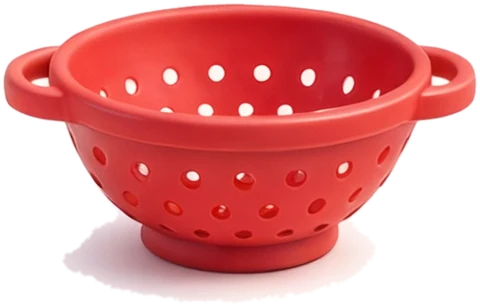
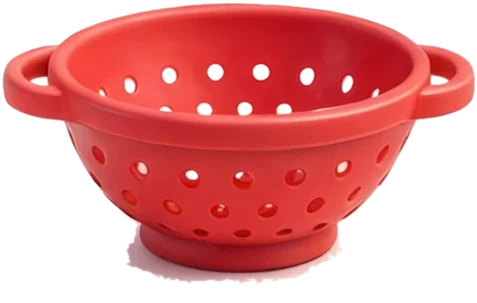
Pasta: spaghetti clearly visible at every step
Dry bundle stands in the pot as a fan and softens, bends and sinks while
stirring; boiling bubbles and rising steam; cooked pasta swirls in the water.
Draining: the pot tilts over the colander, water streams out, the spaghetti
drops into the colander (on top, front rim in front), drips and a puddle below.
Pouring: the sauce bowl follows the finger with a stream, sauce spreads in
blobs and is blended over the noodles so strands stay visible. New clean
cooked-spaghetti picture (no tomato bits); colander and pan without white halos.
Dev ?step= also presets the earlier steps' state.

diff --git a/src/components/PastaMission.tsx b/src/components/PastaMission.tsx
@@ -43,20 +43,26 @@ interface Blob { x: number; y: number; r: number }
 interface Top { id: string; x: number; y: number; rot: number; k: number }
 
 /** Тарелка пасты: тарелка, горка спагетти, пятна соуса, украшения. Координаты — доли коробки. */
-const PastaDish: React.FC<{ width: string; sauce?: Recipe; blobs: Blob[] | 'full'; tops: Top[]; pasta?: boolean; boxRef?: React.Ref<HTMLDivElement>; className?: string } & React.HTMLAttributes<HTMLDivElement>> =
-  ({ width, sauce, blobs, tops, pasta = true, boxRef, className = '', style, ...rest }) => (
+const PastaDish: React.FC<{ width: string; children?: React.ReactNode; sauce?: Recipe; blobs: Blob[] | 'full'; tops: Top[]; pasta?: boolean; boxRef?: React.Ref<HTMLDivElement>; className?: string } & React.HTMLAttributes<HTMLDivElement>> =
+  ({ width, children, sauce, blobs, tops, pasta = true, boxRef, className = '', style, ...rest }) => (
     <div ref={boxRef} className={`relative shrink-0 ${className}`} style={{ width, height: `calc(${width} * 0.66)`, ...style }} {...rest}>
       {/* тарелка (рисуем сами — без тени-ореола) */}
       <div className="absolute left-0 right-0 bottom-[2%] h-[62%] rounded-[50%] pointer-events-none" style={{ background: 'radial-gradient(ellipse at 50% 45%, #FFFFFF 0 52%, #EEF0F3 58%, #FFFFFF 66%, #E3E6EA 100%)', boxShadow: '0 10px 18px rgba(0,0,0,.22)' }} />
       {pasta && <img src={P('spaghetti')} alt="" draggable={false} className="absolute pointer-events-none animate-pop-in" style={{ left: '15%', width: '70%', top: '6%' }} />}
       {sauce && (
-        <div className="absolute pointer-events-none" style={{ left: '17%', width: '66%', top: '8%', height: '58%', borderRadius: '50%', overflow: 'hidden' }}>
+        <div className="absolute pointer-events-none" style={{ left: '19%', width: '62%', top: '5%', height: '48%', borderRadius: '50% 50% 44% 44% / 62% 62% 38% 38%', overflow: 'hidden', mixBlendMode: sauce.id === 'cream' ? 'normal' : 'multiply', opacity: sauce.id === 'cream' ? 0.8 : 1 }}>
           {(blobs === 'full' ? FULL : blobs).map((b, i) => (
-              <span key={i} className="absolute rounded-full" style={{
-                left: `${b.x * 100}%`, top: `${b.y * 100}%`, width: `${b.r * 100}%`, aspectRatio: '1', transform: 'translate(-50%,-50%)',
-                background: `radial-gradient(circle at 40% 35%, ${sauce.color}, ${sauce.dark} 80%, transparent 82%)`, opacity: 0.92,
-              }} />
+              <span key={i} className="absolute" style={{ left: `${b.x * 100}%`, top: `${b.y * 100}%`, width: `${b.r * 100}%`, aspectRatio: '1', transform: 'translate(-50%,-50%)' }}>
+                <span className="block w-full h-full rounded-full" style={{
+                  background: `radial-gradient(circle at 38% 32%, ${sauce.color}, ${sauce.dark} 78%, transparent 82%)`, opacity: 0.92,
+                  animation: blobs === 'full' ? undefined : 'sauce-spread .6s ease-out both',
+                }} />
+              </span>
             ))}
+          {/* блики на соусе */}
+          {blobs === 'full' && [[34, 26, 16], [58, 20, 10], [46, 44, 8]].map(([x, y, w], k) => (
+            <span key={`g${k}`} className="absolute rounded-[50%] bg-white" style={{ left: `${x}%`, top: `${y}%`, width: `${w}%`, height: `${w * 0.45}%`, opacity: 0.35, transform: 'rotate(-18deg)' }} />
+          ))}
         </div>
       )}
       {tops.map((t, i) => (
@@ -64,6 +70,7 @@ const PastaDish: React.FC<{ width: string; sauce?: Recipe; blobs: Blob[] | 'full
           <img src={ing(t.id).src} alt="" draggable={false} className="w-full animate-pop-in drop-shadow" />
         </span>
       ))}
+      {children}
     </div>
   );
 
@@ -80,12 +87,14 @@ const FULL: Blob[] = CELLS.map(([x, y], i) => ({ x: 0.5 + (x - 0.5) * 0.78 + ((i
 export const PastaMission: React.FC<{ character: CharacterItem; soundEnabled: boolean }> = ({ character, soundEnabled }) => {
   const { idx, step, doneFx, next, restart: restartSteps } = useSteps(STEPS, soundEnabled, VOICES);
   const [recipe, setRecipe] = useState<Recipe>(RECIPES[0]);
-  const [fire, setFire] = useState(false);
-  const [inPot, setInPot] = useState(false);
-  const [cook, setCook] = useState(0);
+  // dev ?step=…: состояние как будто предыдущие шаги уже пройдены
+  const s0 = useRef(STEPS.indexOf(step)).current;
+  const [fire, setFire] = useState(s0 > 1);
+  const [inPot, setInPot] = useState(s0 > 2);
+  const [cook, setCook] = useState(s0 > 3 ? 1 : 0);
   const [spoon, setSpoon] = useState<{ x: number; y: number } | null>(null);
-  const [drained, setDrained] = useState(false);
-  const [inPan, setInPan] = useState<string[]>([]);
+  const [drained, setDrained] = useState(s0 > 4);
+  const [inPan, setInPan] = useState<string[]>(s0 > 5 ? RECIPES[0].items : []);
   const [blobs, setBlobs] = useState<Blob[]>([]);
   const [tops, setTops] = useState<Top[]>([]);
   const [wrong, setWrong] = useState<string | null>(null);
@@ -99,7 +108,8 @@ export const PastaMission: React.FC<{ character: CharacterItem; soundEnabled: bo
   const doneRef = useRef<HTMLButtonElement>(null);
   const plateEls = useRef<Record<string, HTMLButtonElement | null>>({});
   const hit = useRef<Set<number>>(new Set());
-  const [cover, setCover] = useState(0);
+  const [cover, setCover] = useState(s0 > 6 ? 1 : 0);
+  const [pourAt, setPourAt] = useState<{ x: number; y: number } | null>(null);
 
   const restart = () => {
     setFire(false); setInPot(false); setCook(0); setDrained(false); setInPan([]); setBlobs([]); setTops([]); setCover(0); hit.current = new Set();
@@ -125,7 +135,7 @@ export const PastaMission: React.FC<{ character: CharacterItem; soundEnabled: bo
     soundEngine.playGamePop(soundEnabled, 1);
     setDrained(true);
     window.setTimeout(() => soundEngine.playGamePop(soundEnabled, 5), 500);
-    window.setTimeout(() => next(), 1500);
+    window.setTimeout(() => next(), 2600);
   };
   const addToPan = (id: string) => {
     if (doneFx || inPan.includes(id)) return;
@@ -135,17 +145,18 @@ export const PastaMission: React.FC<{ character: CharacterItem; soundEnabled: bo
     if (recipe.items.every((x) => n.includes(x))) window.setTimeout(() => next(), 900);
   };
   const pourRub = useRub(step === 'pour' && !doneFx, (_d, p) => {
-    // точка в коробке тарелки → в коробку соуса (left 17% w 66%, top 8% h 58%)
-    const sx = (p.x - 0.17) / 0.66, sy = (p.y - 0.08) / 0.58;
+    setPourAt(p);
+    // точка в коробке тарелки → в коробку соуса (left 20% w 60%, top 4% h 52%)
+    const sx = (p.x - 0.19) / 0.62, sy = (p.y - 0.05) / 0.48;
     if (sx < -0.05 || sx > 1.05 || sy < -0.05 || sy > 1.05) return;
     setBlobs((b) => (b.length > 90 ? b : [...b, { x: sx, y: sy, r: 0.2 + Math.random() * 0.08 }]));
     let added = 0;
-    CELLS.forEach(([cx, cy], i) => { if (!hit.current.has(i) && Math.hypot(cx - sx, (cy - sy) * 0.6) < 0.16) { hit.current.add(i); added++; } });
+    CELLS.forEach(([cx, cy], i) => { if (!hit.current.has(i) && Math.hypot(cx - sx, (cy - sy) * 0.6) < 0.12) { hit.current.add(i); added++; } });
     if (added) {
       soundEngine.playGamePop(soundEnabled, 3 + (hit.current.size % 5));
       const v = hit.current.size / CELLS.length;
       setCover(v);
-      if (v >= 0.75 && v - added / CELLS.length < 0.75) window.setTimeout(() => { setCover(1); next(); }, 400);
+      if (v >= 0.85 && v - added / CELLS.length < 0.85) window.setTimeout(() => { setCover(1); next(); }, 400);
     }
   });
   const addTop = (id: string, at?: { x: number; y: number }) => {
@@ -218,24 +229,48 @@ export const PastaMission: React.FC<{ character: CharacterItem; soundEnabled: bo
     </div>
   );
 
+  /** пучок сухих спагетти: торчит из воды веером и мягчает (изгибается и тонет) по мере варки */
+  const fan = [-16, 4, 22];
   const pot = (
     <div ref={potRef} className="relative w-[78%]">
     <div {...(step === 'stir' ? stirRub : {})} className="relative w-full" style={{ touchAction: 'none' }}>
-      <img src="/assets/items/soup2/pot_open.webp" alt="" draggable={false} className={`w-full pointer-events-none ${step === 'stir' && cook > 0 && cook < 1 ? 'animate-[wiggle_0.6s_infinite]' : ''}`} />
+      {/* пар над кастрюлей */}
+      {boiling && [0, 1, 2].map((k) => (
+        <img key={`st${k}`} src="/assets/items/soup2/steam.webp" alt="" className="absolute w-[42%] pointer-events-none"
+          style={{ left: `${12 + k * 22}%`, top: '-42%', animation: `steam-rise 2.4s ease-out ${k * 0.8}s infinite`, opacity: 0 }} />
+      ))}
+      <img src="/assets/items/soup2/pot_open.webp" alt="" draggable={false} className={`relative w-full pointer-events-none ${step === 'stir' && cook > 0 && cook < 1 ? 'animate-[wiggle_0.6s_infinite]' : ''}`} />
       {/* водичка */}
-      <div className="absolute pointer-events-none overflow-hidden rounded-[50%]" style={{ left: '14%', width: '72%', top: '17%', height: '30%', background: 'radial-gradient(circle at 50% 40%, #CFEFFF, #7CC6F0 70%, #4FA6DA)' }}>
-        {boiling && Array.from({ length: 9 }).map((_, i) => (
-          <span key={i} className="absolute rounded-full bg-white/80 animate-[pop-in_0.9s_ease-out_infinite]" style={{ left: `${10 + (i * 37) % 78}%`, top: `${20 + (i * 23) % 55}%`, width: '9%', aspectRatio: '1', animationDelay: `${(i * 0.17) % 0.9}s` }} />
+      <div className="absolute pointer-events-none overflow-hidden rounded-[50%]" style={{ left: '13%', width: '74%', top: '15%', height: '32%', background: 'radial-gradient(ellipse at 50% 40%, #E3F6FF, #8ED0F4 60%, #4FA6DA)', boxShadow: 'inset 0 6px 10px rgba(255,255,255,.7)' }}>
+        {boiling && Array.from({ length: 14 }).map((_, i) => (
+          <span key={i} className="absolute rounded-full border-2 border-white/90 bg-white/40"
+            style={{ left: `${6 + (i * 37) % 84}%`, top: `${14 + (i * 23) % 66}%`, width: `${6 + (i % 3) * 3}%`, aspectRatio: '1', animation: `bubble-pop ${0.7 + (i % 4) * 0.2}s ease-out ${(i * 0.13) % 0.9}s infinite` }} />
         ))}
-        {inPot && (cook < 0.5
-          ? <img src={P('spaghetti_dry')} alt="" className="absolute left-1/2 top-[-60%] w-[28%]" style={{ transform: `translateX(-50%) rotate(${12 + cook * 120}deg)` }} />
-          : <img src={P('spaghetti')} alt="" className="absolute left-[8%] w-[84%] top-[2%]" style={{ transform: `rotate(${cook * 360}deg)` }} />)}
+        {/* варёные спагетти кружатся в воде */}
+        {inPot && cook > 0.2 && (
+          <img src={P('spaghetti')} alt="" className="absolute left-[6%] w-[88%] top-[-4%]"
+            style={{ opacity: Math.min(1, (cook - 0.2) * 2.5), transform: `rotate(${cook * 300}deg) scale(${0.7 + cook * 0.3})`, transition: 'transform .15s' }} />
+        )}
       </div>
-      {inPot && cook < 0.5 && <img src={P('spaghetti_dry')} alt="" className="absolute left-[38%] w-[22%] -top-[28%] pointer-events-none" style={{ transform: `rotate(${14 + cook * 70}deg)`, transformOrigin: '50% 100%' }} />}
-      {boiling && <img src="/assets/items/soup2/steam.webp" alt="" className="absolute left-[22%] w-[50%] -top-[34%] opacity-70 pointer-events-none animate-gentle-float" />}
+      {/* горка варёных спагетти поверх воды — хорошо видна */}
+      {inPot && cook >= 0.6 && (
+        <img src={P('spaghetti')} alt="" className="absolute left-[16%] w-[68%] pointer-events-none animate-pop-in" style={{ top: '6%' }} />
+      )}
+      {/* сухой пучок: торчит веером из кастрюли, мягчеет и тонет */}
+      {inPot && cook < 0.6 && (
+        <div className="absolute pointer-events-none" style={{ left: '50%', top: '30%', width: '24%', transform: `translate(-50%, -100%) translateY(${cook * 70}%)`, opacity: 1 - Math.max(0, cook - 0.35) * 4 }}>
+          <div className="relative" style={{ animation: 'drop-in .5s ease-out both' }}>
+          {fan.map((r, k) => (
+            <img key={k} src={P('spaghetti_dry')} alt="" className="absolute left-0 bottom-0 w-full"
+              style={{ transformOrigin: '50% 100%', transform: `rotate(${r * (1 + cook * 4)}deg) skewX(${(k - 1) * cook * 30}deg)`, transition: 'transform .2s' }} />
+          ))}
+          <img src={P('spaghetti_dry')} alt="" className="relative w-full invisible" />
+          </div>
+        </div>
+      )}
       {step === 'stir' && (
         <img src={P('spoon')} alt="" className="absolute w-[34%] pointer-events-none transition-all duration-75"
-          style={{ left: `${(spoon?.x ?? 0.6) * 100}%`, top: `${(spoon?.y ?? 0.25) * 100}%`, transform: 'translate(-30%,-85%) rotate(-20deg)' }} />
+          style={{ left: `${(spoon?.x ?? 0.6) * 100}%`, top: `${(spoon?.y ?? 0.25) * 100}%`, transform: 'translate(-30%,-85%) rotate(-20deg)', zIndex: 3 }} />
       )}
       {step === 'stir' && (
         <div className="absolute left-[15%] right-[15%] -bottom-[10%] h-3 rounded-full bg-white/70 overflow-hidden">
@@ -243,6 +278,16 @@ export const PastaMission: React.FC<{ character: CharacterItem; soundEnabled: bo
         </div>
       )}
     </div>
+    </div>
+  );
+
+  const COL = portrait ? 'min(74vw, 32vh)' : 'min(46vmin, 400px)';
+  /** кастрюля с варёными спагетти (для шага «откинуть») */
+  const cookedPot = (empty: boolean) => (
+    <div className="relative w-full">
+      <img src="/assets/items/soup2/pot_open.webp" alt="" draggable={false} className="relative w-full" />
+      <div className="absolute overflow-hidden rounded-[50%]" style={{ left: '13%', width: '74%', top: '15%', height: '32%', background: 'radial-gradient(ellipse at 50% 40%, #E3F6FF, #8ED0F4 60%, #4FA6DA)' }} />
+      <img src={P('spaghetti')} alt="" className="absolute left-[16%] w-[68%]" style={{ top: '6%', opacity: empty ? 0 : 1, transition: 'opacity .3s .5s' }} />
     </div>
   );
 
@@ -276,22 +321,32 @@ export const PastaMission: React.FC<{ character: CharacterItem; soundEnabled: bo
       )}
 
       {step === 'drain' && (
-        <div className="relative flex flex-col items-center">
-          <div ref={colanderRef} onClick={drain} className="relative" style={{ width: portrait ? 'min(70vw, 34vh)' : 'min(50vmin, 420px)' }}>
+        <div className="relative flex flex-col items-center" style={{ paddingTop: `calc(${COL} * 0.55)` }}>
+          <div ref={colanderRef} onClick={drain} className="relative cursor-pointer" style={{ width: COL }}>
+            {/* кастрюля: стоит рядом, при «откинуть» наклоняется над дуршлагом */}
+            <button type="button" aria-label="Откинуть спагетти" onClick={(e) => { e.stopPropagation(); drain(); }}
+              className={`absolute ${drained ? '' : 'animate-gentle-float'}`}
+              style={{ width: '62%', left: drained ? '30%' : '58%', top: drained ? '-62%' : '-78%', zIndex: drained ? 1 : 4, transition: 'left .5s, top .5s' }}>
+              <div style={{ transformOrigin: '20% 30%', transform: drained ? 'rotate(-80deg)' : 'rotate(0)', transition: 'transform .55s ease-in' }}>{cookedPot(drained)}</div>
+            </button>
+            {/* струя воды из кастрюли */}
             {drained && (
-              <img src="/assets/items/soup2/pot_open.webp" alt="" className="absolute left-[18%] w-[64%] -top-[70%] pointer-events-none"
-                style={{ transform: 'rotate(-70deg)', transformOrigin: '80% 80%' }} />
+              <span className="absolute pointer-events-none rounded-full" style={{ left: '44%', width: '12%', top: '-32%', height: '52%', background: 'linear-gradient(#8ED0F4cc, #8ED0F466)', animation: 'stream 1.6s ease-in .45s both', zIndex: 2 }} />
             )}
-            {drained && Array.from({ length: 10 }).map((_, i) => (
-              <span key={i} className="absolute w-[3%] h-[14%] rounded-full bg-[#7CC6F0] pointer-events-none animate-[rain-fall_0.6s_linear_infinite]"
-                style={{ left: `${30 + (i * 7) % 40}%`, top: '-10%', animationDelay: `${i * 0.06}s` }} />
+            {/* брызги на дне раковины */}
+            {drained && Array.from({ length: 12 }).map((_, i) => (
+              <span key={`d${i}`} className="absolute rounded-full bg-[#7CC6F0] pointer-events-none"
+                style={{ left: `${28 + (i * 9) % 44}%`, top: `${78 + (i % 3) * 5}%`, width: '2.6%', height: '7%', zIndex: 5, animation: `drip ${0.55 + (i % 4) * 0.12}s ease-in ${0.6 + (i * 0.11) % 0.7}s infinite` }} />
             ))}
-            {drained && <img src={P('spaghetti')} alt="" className="absolute left-[14%] w-[72%] -top-[8%] pointer-events-none animate-pop-in" style={{ animationDelay: '.5s' }} />}
-            <img src={P('colander')} alt="" draggable={false} className="relative w-full pointer-events-none" />
-            {drained && Array.from({ length: 8 }).map((_, i) => (
-              <span key={`d${i}`} className="absolute w-[3%] h-[10%] rounded-full bg-[#7CC6F0] pointer-events-none animate-[rain-fall_0.5s_linear_infinite]"
-                style={{ left: `${25 + (i * 9) % 50}%`, top: '80%', animationDelay: `${i * 0.07}s` }} />
-            ))}
+            {/* лужица под дуршлагом */}
+            {drained && <span className="absolute left-[18%] right-[18%] rounded-[50%] bg-[#8ED0F4]/60 pointer-events-none" style={{ top: '104%', height: '14%', zIndex: 5, animation: 'pop-in .8s ease-out .8s both' }} />}
+            {/* дуршлаг: спагетти лежат в нём, горкой над краем */}
+            <img src={P('colander')} alt="" draggable={false} className="relative w-full pointer-events-none" style={{ zIndex: 2 }} />
+            {drained && (
+              <img src={P('spaghetti')} alt="" className="absolute left-[15%] w-[70%] pointer-events-none" style={{ top: '-30%', zIndex: 3, animation: 'drop-in .55s cubic-bezier(.3,1.4,.5,1) .55s both' }} />
+            )}
+            {/* передний край дуршлага поверх спагетти — они внутри */}
+            {drained && <img src={P('colander')} alt="" draggable={false} className="absolute left-0 top-0 w-full pointer-events-none" style={{ zIndex: 4, clipPath: 'inset(30% 0 0 0)' }} />}
           </div>
         </div>
       )}
@@ -317,12 +372,21 @@ export const PastaMission: React.FC<{ character: CharacterItem; soundEnabled: bo
 
       {step === 'pour' && (
         <div className="flex flex-col items-center gap-[3vmin]">
-          <img src={recipe.bowl} alt="" className="w-[min(22vmin,150px)] pointer-events-none animate-gentle-float" />
+          <img src={recipe.bowl} alt="" className="w-[min(22vmin,150px)] pointer-events-none animate-gentle-float" style={{ visibility: pourAt ? 'hidden' : 'visible' }} />
           <PastaDish width={DISH} sauce={recipe} blobs={cover >= 1 ? 'full' : blobs} tops={[]} boxRef={(el: HTMLDivElement | null) => { (pourRub.ref as React.MutableRefObject<HTMLDivElement | null>).current = el; (dishRef as React.MutableRefObject<HTMLDivElement | null>).current = el; }}
-            onPointerDown={pourRub.onPointerDown} onPointerMove={pourRub.onPointerMove} onPointerUp={pourRub.onPointerUp} onPointerCancel={pourRub.onPointerCancel}
-            style={{ touchAction: 'none' }} className="cursor-pointer" />
+            onPointerDown={pourRub.onPointerDown} onPointerMove={pourRub.onPointerMove}
+            onPointerUp={() => { pourRub.onPointerUp(); setPourAt(null); }} onPointerCancel={() => { pourRub.onPointerCancel(); setPourAt(null); }}
+            style={{ touchAction: 'none' }} className="cursor-pointer">
+            {/* мисочка с соусом следует за пальцем и льёт струйкой */}
+            {pourAt && cover < 1 && (
+              <span className="absolute pointer-events-none" style={{ left: `${pourAt.x * 100}%`, top: `${pourAt.y * 100}%`, width: '26%', transform: 'translate(-20%, -150%)', zIndex: 5 }}>
+                <span className="absolute rounded-full" style={{ left: '4%', top: '58%', width: '9%', height: '96%', background: `linear-gradient(${recipe.color}, ${recipe.dark})` }} />
+                <img src={recipe.bowl} alt="" className="relative w-full" style={{ transform: 'rotate(-38deg)', transformOrigin: '20% 60%' }} />
+              </span>
+            )}
+          </PastaDish>
           <div className="w-[min(50vw,300px)] h-3 rounded-full bg-white/70 overflow-hidden">
-            <div className="h-full rounded-full transition-all" style={{ width: `${Math.min(1, cover / 0.75) * 100}%`, background: recipe.color }} />
+            <div className="h-full rounded-full transition-all" style={{ width: `${Math.min(1, cover / 0.85) * 100}%`, background: recipe.color }} />
           </div>
         </div>
       )}

diff --git a/src/index.css b/src/index.css
@@ -386,3 +386,9 @@ body[data-cook='1'] .helper-corner {
 @keyframes rain-jump { 0% { transform: translateY(0) scale(1, 1); } 15% { transform: translateY(0) scale(1.1, 0.88); } 50% { transform: translateY(-55%) scale(0.95, 1.06); } 85% { transform: translateY(0) scale(1.12, 0.86); } 100% { transform: translateY(0) scale(1, 1); } }
 @keyframes splash-fly { 0% { transform: translate(-50%, -50%) translate(0, 0) scale(0.6); opacity: 1; } 100% { transform: translate(-50%, -50%) translate(var(--dx), var(--dy)) scale(1); opacity: 0; } }
 @keyframes ripple { 0% { transform: translate(-50%, -50%) scale(0.3); opacity: 0.9; } 100% { transform: translate(-50%, -50%) scale(1.4); opacity: 0; } }
+@keyframes steam-rise { 0% { transform: translateY(30%) scale(0.7); opacity: 0; } 30% { opacity: 0.75; } 100% { transform: translateY(-70%) scale(1.25); opacity: 0; } }
+@keyframes bubble-pop { 0% { transform: scale(0.2); opacity: 0; } 30% { opacity: 1; } 80% { transform: scale(1.1); opacity: 0.9; } 100% { transform: scale(1.4); opacity: 0; } }
+@keyframes drop-in { 0% { transform: translateY(-120%); opacity: 0; } 60% { opacity: 1; } 100% { transform: translateY(0); opacity: 1; } }
+@keyframes stream { 0% { transform: scaleY(0); transform-origin: top; opacity: 1; } 20% { transform: scaleY(1); opacity: 1; } 80% { transform: scaleY(1); opacity: 1; } 100% { transform: scaleY(0.2); opacity: 0; } }
+@keyframes drip { 0% { transform: translateY(0) scaleY(0.6); opacity: 0; } 15% { opacity: 1; } 100% { transform: translateY(260%) scaleY(1.1); opacity: 0; } }
+@keyframes sauce-spread { 0% { transform: scale(0.15); opacity: 0.4; } 70% { transform: scale(1.08); } 100% { transform: scale(1); opacity: 1; } }
